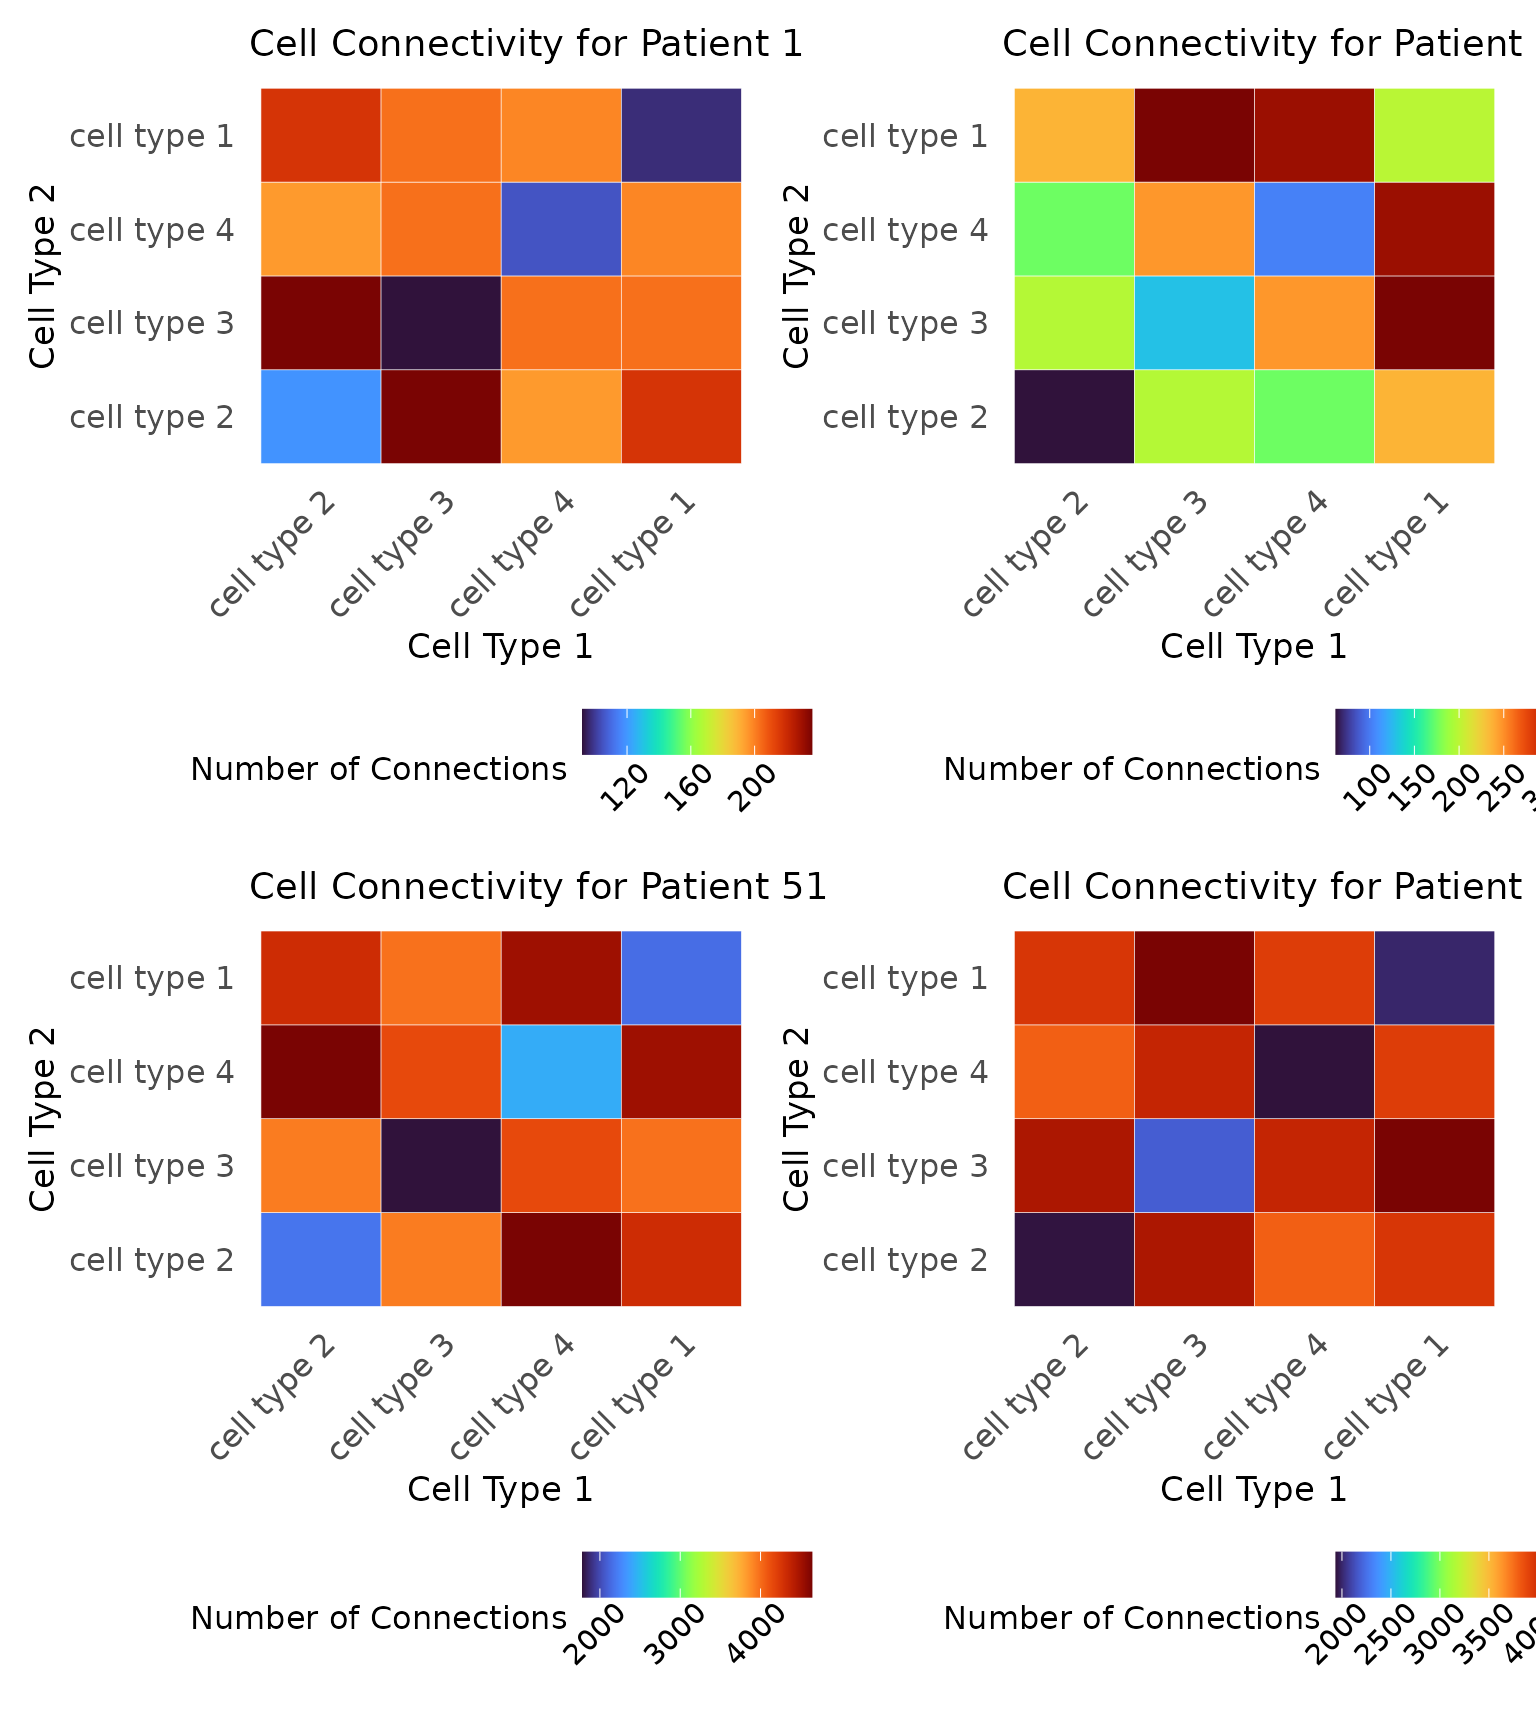
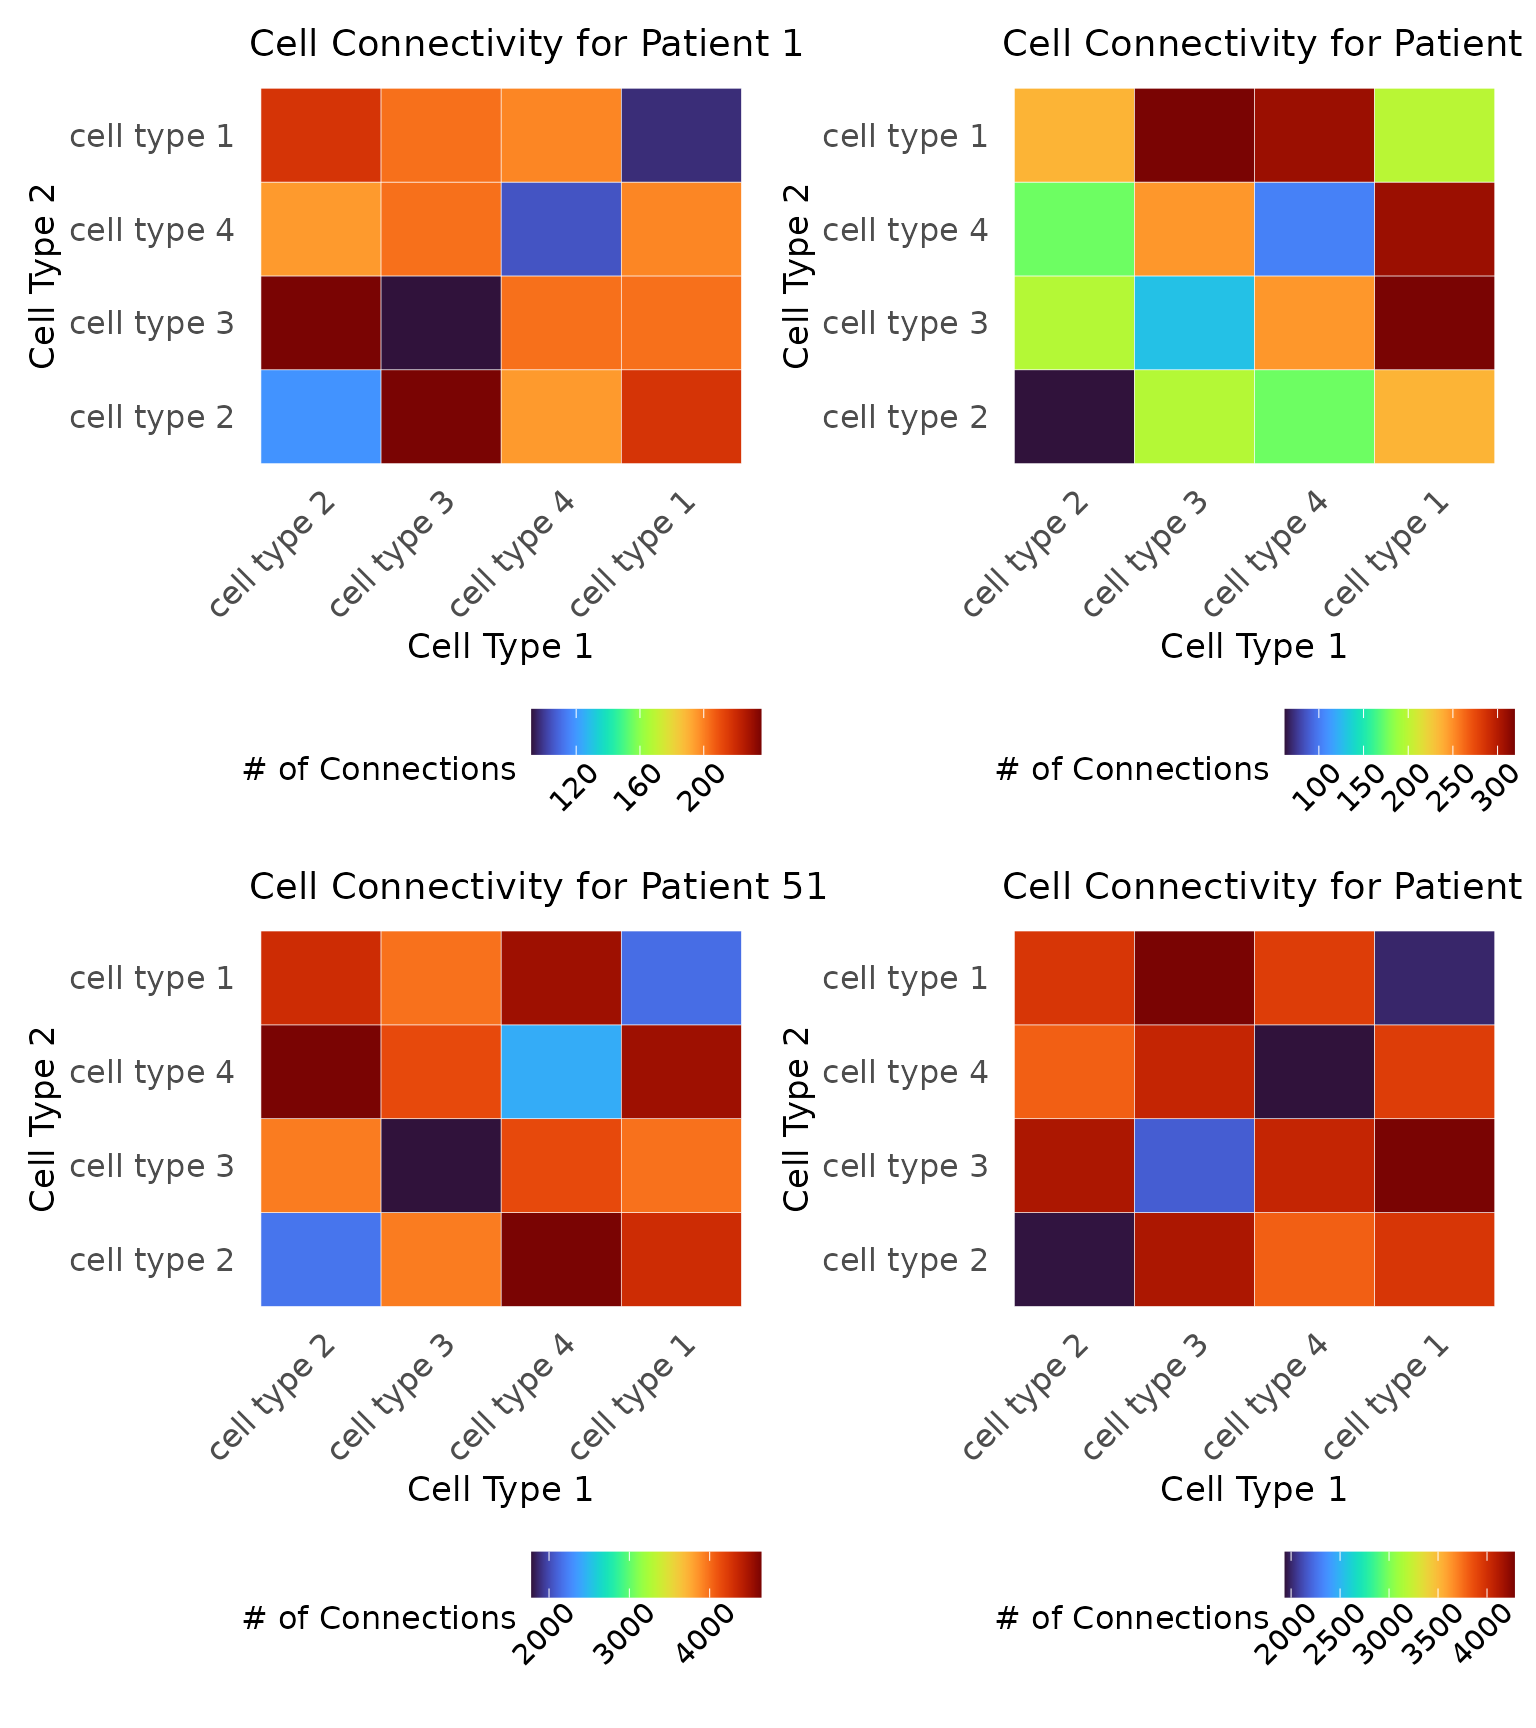
Deploying to gh-pages from @ sarahsamorodnitsky/TopKAT@fb12411ede7ea7e635320835d3e8dcb789c30939 🚀

diff --git a/articles/example_sim_tissue.html b/articles/example_sim_tissue.html
@@ -300,25 +300,25 @@ like for our example images:</p>
 <span><span class="va">sc1</span> <span class="op">&lt;-</span> <span class="fu"><a href="../reference/plot_cells_with_scale.html">plot_cells_with_scale</a></span><span class="op">(</span></span>
 <span>  image <span class="op">=</span> <span class="va">data2.df</span> <span class="op"><a href="https://magrittr.tidyverse.org/reference/pipe.html" class="external-link">%&gt;%</a></span> <span class="fu">dplyr</span><span class="fu">::</span><span class="fu"><a href="https://dplyr.tidyverse.org/reference/filter.html" class="external-link">filter</a></span><span class="op">(</span><span class="va">PID</span> <span class="op">==</span> <span class="fl">1</span><span class="op">)</span>,</span>
 <span>  threshold <span class="op">=</span> <span class="va">res_scale_import</span><span class="op">$</span><span class="va">min.thresh</span>,</span>
-<span>  title <span class="op">=</span> <span class="st">"Simplicial Complex for Sample 1"</span></span>
+<span>  title <span class="op">=</span> <span class="st">"Simplicial Complex for \n Sample 1"</span></span>
 <span><span class="op">)</span></span>
 <span></span>
 <span><span class="va">sc2</span> <span class="op">&lt;-</span> <span class="fu"><a href="../reference/plot_cells_with_scale.html">plot_cells_with_scale</a></span><span class="op">(</span></span>
 <span>  image <span class="op">=</span> <span class="va">data2.df</span> <span class="op"><a href="https://magrittr.tidyverse.org/reference/pipe.html" class="external-link">%&gt;%</a></span> <span class="fu">dplyr</span><span class="fu">::</span><span class="fu"><a href="https://dplyr.tidyverse.org/reference/filter.html" class="external-link">filter</a></span><span class="op">(</span><span class="va">PID</span> <span class="op">==</span> <span class="fl">2</span><span class="op">)</span>,</span>
 <span>  threshold <span class="op">=</span> <span class="va">res_scale_import</span><span class="op">$</span><span class="va">min.thresh</span>,</span>
-<span>  title <span class="op">=</span> <span class="st">"Simplicial Complex for Sample 2"</span></span>
+<span>  title <span class="op">=</span> <span class="st">"Simplicial Complex for \n Sample 2"</span></span>
 <span><span class="op">)</span></span>
 <span></span>
 <span><span class="va">sc3</span> <span class="op">&lt;-</span> <span class="fu"><a href="../reference/plot_cells_with_scale.html">plot_cells_with_scale</a></span><span class="op">(</span></span>
 <span>  image <span class="op">=</span> <span class="va">data2.df</span> <span class="op"><a href="https://magrittr.tidyverse.org/reference/pipe.html" class="external-link">%&gt;%</a></span> <span class="fu">dplyr</span><span class="fu">::</span><span class="fu"><a href="https://dplyr.tidyverse.org/reference/filter.html" class="external-link">filter</a></span><span class="op">(</span><span class="va">PID</span> <span class="op">==</span> <span class="fl">51</span><span class="op">)</span>,</span>
 <span>  threshold <span class="op">=</span> <span class="va">res_scale_import</span><span class="op">$</span><span class="va">min.thresh</span>,</span>
-<span>  title <span class="op">=</span> <span class="st">"Simplicial Complex for Sample 51"</span></span>
+<span>  title <span class="op">=</span> <span class="st">"Simplicial Complex for \n Sample 51"</span></span>
 <span><span class="op">)</span></span>
 <span></span>
 <span><span class="va">sc4</span> <span class="op">&lt;-</span> <span class="fu"><a href="../reference/plot_cells_with_scale.html">plot_cells_with_scale</a></span><span class="op">(</span></span>
 <span>  image <span class="op">=</span> <span class="va">data2.df</span> <span class="op"><a href="https://magrittr.tidyverse.org/reference/pipe.html" class="external-link">%&gt;%</a></span> <span class="fu">dplyr</span><span class="fu">::</span><span class="fu"><a href="https://dplyr.tidyverse.org/reference/filter.html" class="external-link">filter</a></span><span class="op">(</span><span class="va">PID</span> <span class="op">==</span> <span class="fl">52</span><span class="op">)</span>,</span>
 <span>  threshold <span class="op">=</span> <span class="va">res_scale_import</span><span class="op">$</span><span class="va">min.thresh</span>,</span>
-<span>  title <span class="op">=</span> <span class="st">"Simplicial Complex for Sample 52"</span></span>
+<span>  title <span class="op">=</span> <span class="st">"Simplicial Complex for \n Sample 52"</span></span>
 <span><span class="op">)</span></span>
 <span></span>
 <span><span class="co"># Arrange the plots</span></span>
@@ -337,15 +337,15 @@ We visualize these matrices for the four samples given above.</p>
 <span>  title <span class="op">=</span> <span class="st">"Cell Connectivity for Patient 1"</span>,</span>
 <span>  type.column <span class="op">=</span> <span class="st">"type"</span>,</span>
 <span>  unique.types <span class="op">=</span> <span class="fu"><a href="https://rdrr.io/r/base/unique.html" class="external-link">unique</a></span><span class="op">(</span><span class="va">data2.df</span><span class="op">$</span><span class="va">type</span><span class="op">)</span></span>
-<span><span class="op">)</span></span>
-<span></span>
+<span><span class="op">)</span> <span class="op">+</span> <span class="fu"><a href="https://ggplot2.tidyverse.org/reference/labs.html" class="external-link">labs</a></span><span class="op">(</span>fill <span class="op">=</span> <span class="st">"# of Connections"</span><span class="op">)</span></span>
+<span> </span>
 <span><span class="va">c2</span> <span class="op">&lt;-</span> <span class="fu"><a href="../reference/plot_cell_connections.html">plot_cell_connections</a></span><span class="op">(</span></span>
 <span>  image <span class="op">=</span> <span class="va">data2.df</span> <span class="op"><a href="https://magrittr.tidyverse.org/reference/pipe.html" class="external-link">%&gt;%</a></span> <span class="fu">dplyr</span><span class="fu">::</span><span class="fu"><a href="https://dplyr.tidyverse.org/reference/filter.html" class="external-link">filter</a></span><span class="op">(</span><span class="va">PID</span> <span class="op">==</span> <span class="fl">2</span><span class="op">)</span>,</span>
 <span>  threshold <span class="op">=</span> <span class="va">res_scale_import</span><span class="op">$</span><span class="va">min.thresh</span>,</span>
 <span>  title <span class="op">=</span> <span class="st">"Cell Connectivity for Patient 2"</span>,</span>
 <span>  type.column <span class="op">=</span> <span class="st">"type"</span>,</span>
 <span>  unique.types <span class="op">=</span> <span class="fu"><a href="https://rdrr.io/r/base/unique.html" class="external-link">unique</a></span><span class="op">(</span><span class="va">data2.df</span><span class="op">$</span><span class="va">type</span><span class="op">)</span></span>
-<span><span class="op">)</span></span>
+<span><span class="op">)</span> <span class="op">+</span> <span class="fu"><a href="https://ggplot2.tidyverse.org/reference/labs.html" class="external-link">labs</a></span><span class="op">(</span>fill <span class="op">=</span> <span class="st">"# of Connections"</span><span class="op">)</span></span>
 <span></span>
 <span><span class="va">c3</span> <span class="op">&lt;-</span> <span class="fu"><a href="../reference/plot_cell_connections.html">plot_cell_connections</a></span><span class="op">(</span></span>
 <span>  image <span class="op">=</span> <span class="va">data2.df</span> <span class="op"><a href="https://magrittr.tidyverse.org/reference/pipe.html" class="external-link">%&gt;%</a></span> <span class="fu">dplyr</span><span class="fu">::</span><span class="fu"><a href="https://dplyr.tidyverse.org/reference/filter.html" class="external-link">filter</a></span><span class="op">(</span><span class="va">PID</span> <span class="op">==</span> <span class="fl">51</span><span class="op">)</span>,</span>
@@ -353,7 +353,7 @@ We visualize these matrices for the four samples given above.</p>
 <span>  title <span class="op">=</span> <span class="st">"Cell Connectivity for Patient 51"</span>,</span>
 <span>  type.column <span class="op">=</span> <span class="st">"type"</span>,</span>
 <span>  unique.types <span class="op">=</span> <span class="fu"><a href="https://rdrr.io/r/base/unique.html" class="external-link">unique</a></span><span class="op">(</span><span class="va">data2.df</span><span class="op">$</span><span class="va">type</span><span class="op">)</span></span>
-<span><span class="op">)</span></span>
+<span><span class="op">)</span> <span class="op">+</span> <span class="fu"><a href="https://ggplot2.tidyverse.org/reference/labs.html" class="external-link">labs</a></span><span class="op">(</span>fill <span class="op">=</span> <span class="st">"# of Connections"</span><span class="op">)</span></span>
 <span></span>
 <span><span class="va">c4</span> <span class="op">&lt;-</span> <span class="fu"><a href="../reference/plot_cell_connections.html">plot_cell_connections</a></span><span class="op">(</span></span>
 <span>  image <span class="op">=</span> <span class="va">data2.df</span> <span class="op"><a href="https://magrittr.tidyverse.org/reference/pipe.html" class="external-link">%&gt;%</a></span> <span class="fu">dplyr</span><span class="fu">::</span><span class="fu"><a href="https://dplyr.tidyverse.org/reference/filter.html" class="external-link">filter</a></span><span class="op">(</span><span class="va">PID</span> <span class="op">==</span> <span class="fl">52</span><span class="op">)</span>,</span>
@@ -361,7 +361,7 @@ We visualize these matrices for the four samples given above.</p>
 <span>  title <span class="op">=</span> <span class="st">"Cell Connectivity for Patient 52"</span>,</span>
 <span>  type.column <span class="op">=</span> <span class="st">"type"</span>,</span>
 <span>  unique.types <span class="op">=</span> <span class="fu"><a href="https://rdrr.io/r/base/unique.html" class="external-link">unique</a></span><span class="op">(</span><span class="va">data2.df</span><span class="op">$</span><span class="va">type</span><span class="op">)</span></span>
-<span><span class="op">)</span></span>
+<span><span class="op">)</span> <span class="op">+</span> <span class="fu"><a href="https://ggplot2.tidyverse.org/reference/labs.html" class="external-link">labs</a></span><span class="op">(</span>fill <span class="op">=</span> <span class="st">"# of Connections"</span><span class="op">)</span></span>
 <span></span>
 <span><span class="co"># Arrange the plots</span></span>
 <span><span class="va">c1</span> <span class="op">+</span> <span class="va">c2</span> <span class="op">+</span> <span class="va">c3</span> <span class="op">+</span> <span class="va">c4</span></span></code></pre></div>
